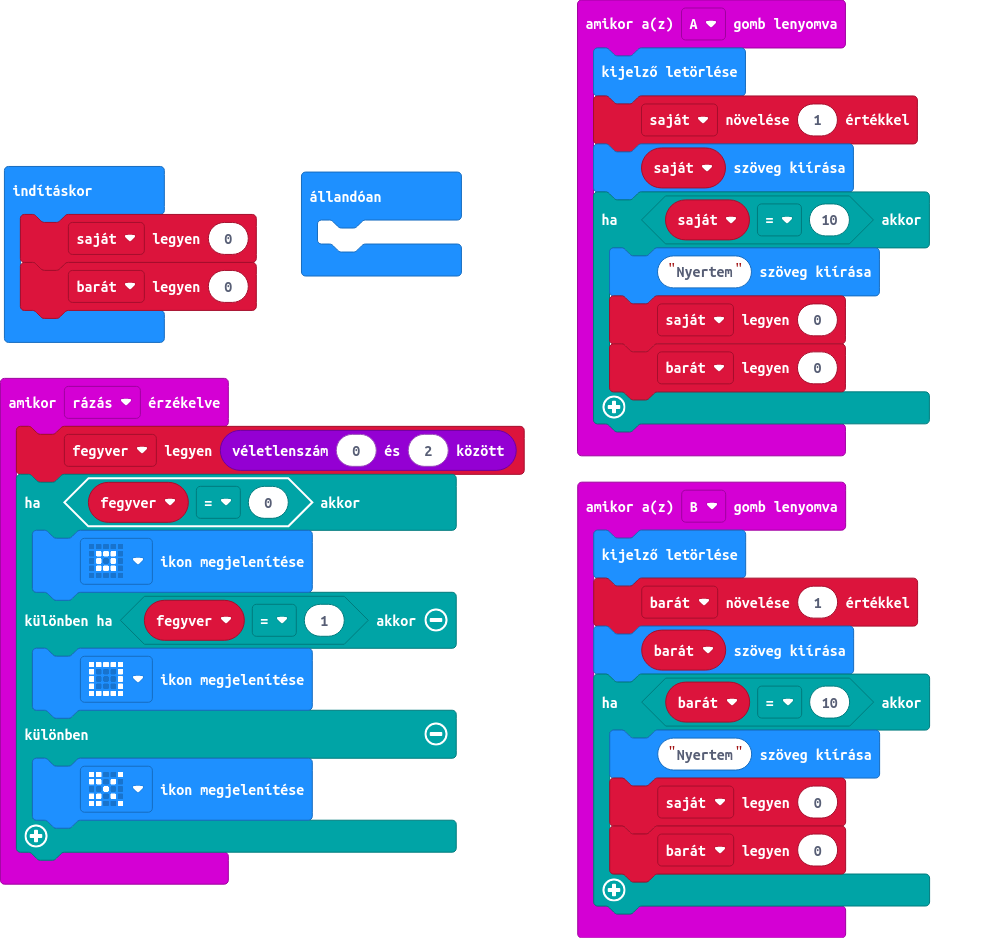
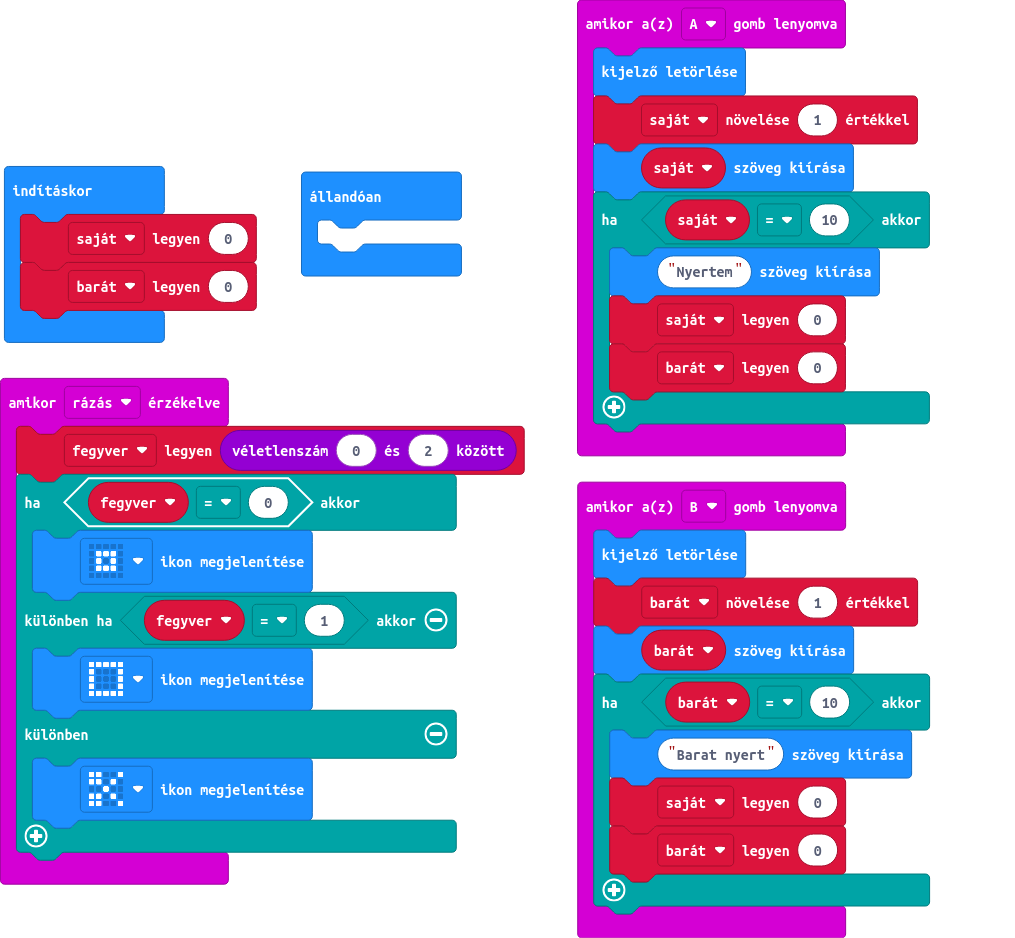
Fixa

diff --git a/main.ts b/main.ts
@@ -23,7 +23,7 @@ input.onButtonPressed(Button.B, function () {
     barát += 1
     basic.showString("" + (barát))
     if (barát == 10) {
-        basic.showString("Nyertem")
+        basic.showString("Barat nyert")
         saját = 0
         barát = 0
     }
